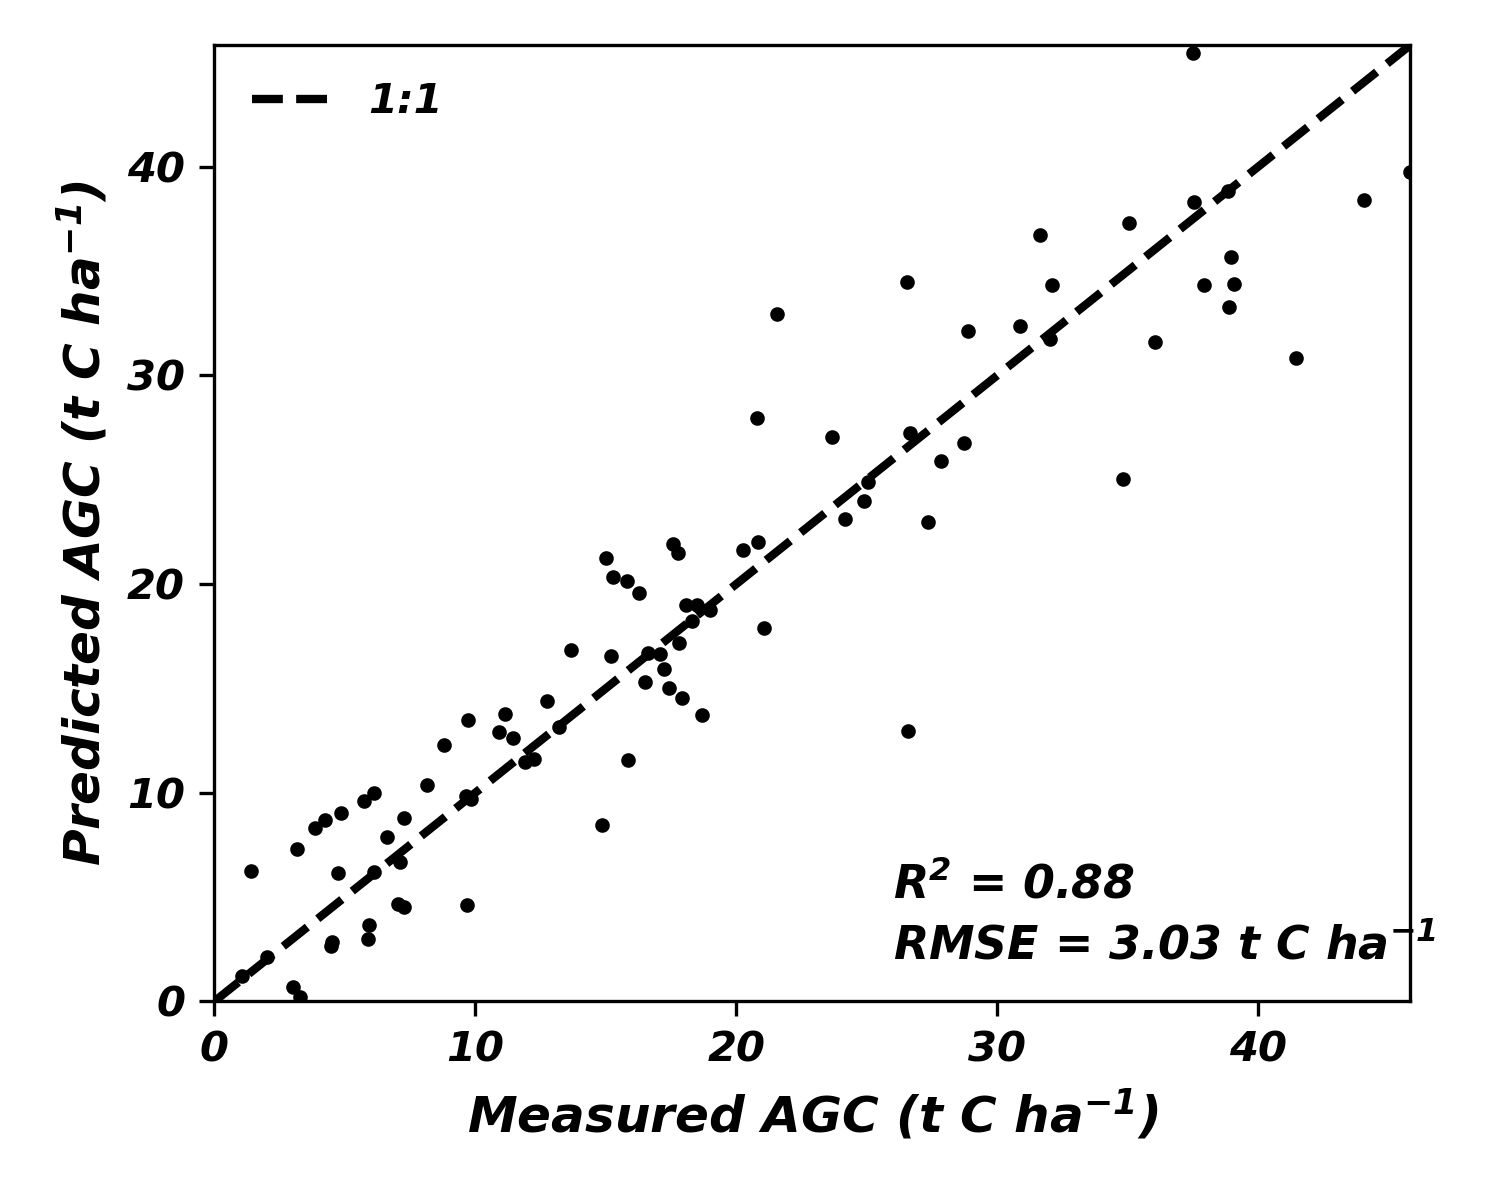
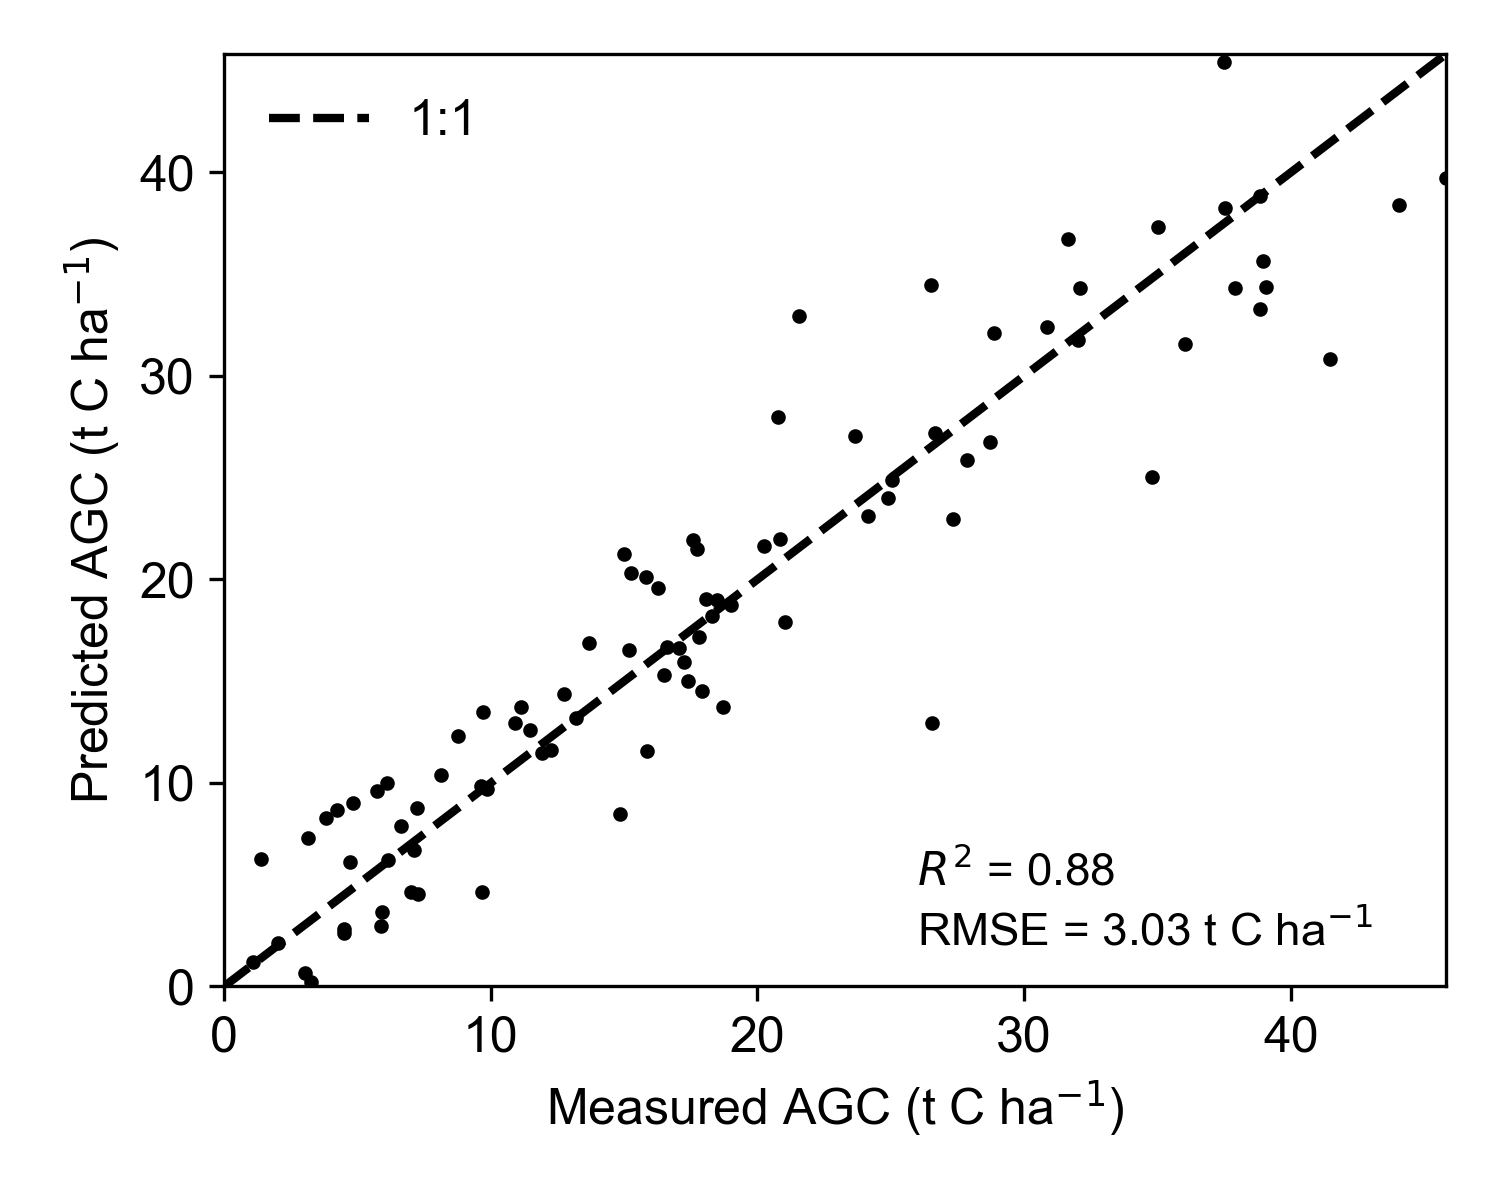
updates to plots in fit_agc_model.py for JARS paper tidying of fcr

diff --git a/scripts/fit_agc_model.py b/scripts/fit_agc_model.py
@@ -22,6 +22,7 @@ import numpy as np
 import geopandas as gpd, pandas as pd
 from sklearn import linear_model
 from matplotlib import pyplot
+
 import joblib, pickle
 
 from map_thicket_agc import imaging as img
@@ -61,91 +62,111 @@ im_plot_agc_gdf.loc[im_plot_agc_gdf['data']['Stratum'] == 'Degraded', ('data', '
 im_plot_agc_gdf.loc[im_plot_agc_gdf['data']['Stratum'] == 'Intact', ('data', 'Stratum')] = 'Pristine'
 
 # make an example scatter plot of feature vs AGC/ABC
+pyplot.rcParams["font.family"] = "arial"
+pyplot.rcParams["font.size"] = "12"
+pyplot.rcParams["font.style"] = "normal"
+pyplot.rcParams['legend.fontsize'] = 'medium'
+pyplot.rcParams['figure.titlesize'] = 'medium'
+
 pyplot.figure()
 vis.scatter_ds(im_plot_agc_gdf, x_col=('feats', '(mean(pan/R))'), y_col=('data', 'AgcHa'), class_col=('data', 'Stratum'),
                xfn=lambda x: np.log10(x), do_regress=True)
 
 ## select and analyse best features for predicting AGC with linear regression
 # TODO - experiment with cv vals in fs and eval below - has a big effect on what is selected and how it is scored.
+#       eg, cv=10, selects ~45 features and gets R2~.93, cv=5 selects ~10 features with R2~.88
 y = im_plot_agc_gdf['data']['AgcHa']
-selected_feats_df, selected_scores = fs.fcr(im_plot_agc_gdf['feats'], y, max_num_feats=25, dist_fn=None, score_fn=None)
+# selected_feats_df, selected_scores = fs.fcr(im_plot_agc_gdf['feats'], y, max_num_feats=None, dist_fn=None, score_fn=None)
 
 selected_feats_df, selected_scores = fs.forward_selection(im_plot_agc_gdf['feats'], y, max_num_feats=25, cv=5,
                                                           score_fn=None)
 
 # calculate scores of selected features with LOOCV
 selected_loocv_scores = []
-num_feats = range(0, len(selected_scores))
+num_feats = range(1, len(selected_scores)+1)
 for i in num_feats:
-    scores, predicted = fs.score_model(selected_feats_df.to_numpy()[:, :i + 1], y, model=linear_model.LinearRegression(),
+    scores, predicted = fs.score_model(selected_feats_df.to_numpy()[:, :i], y, model=linear_model.LinearRegression(),
                                        find_predicted=True, cv=len(selected_feats_df))
     loocv_scores = {'R2': scores['R2_stacked'], 'RMSE': np.abs(scores['test_-RMSE']).mean()/1000., 'RMSE CI':
         np.percentile(np.abs(scores['test_-RMSE']), [5, 95])}
     selected_loocv_scores.append(loocv_scores)
-    logger.info('Scored model {0} of {1}'.format(i+1, len(selected_scores)))
+    logger.info('Scored model {0} of {1}'.format(i, len(selected_scores)))
 
 selected_loocv_scores_df = pd.DataFrame(selected_loocv_scores)
+best_model_idx = np.argmin(selected_loocv_scores_df['RMSE'])
 
 # make plots of change in score as features are added to model for report
 fig = pyplot.figure()
 fig.set_size_inches(8, 6, forward=True)
 pyplot.subplot(2, 1, 1)
-pyplot.plot(num_feats, selected_loocv_scores_df['R2'], 'k-')
+pyplot.plot(num_feats, selected_loocv_scores_df['R2'], 'k-x')
 pyplot.xlabel('Number of features')
 pyplot.ylabel('$\mathit{R}^2$')
 pyplot.tight_layout()
 pyplot.subplot(2, 1, 2)
-pyplot.plot(num_feats, selected_loocv_scores_df['RMSE'], 'k-')
+pyplot.plot(num_feats, selected_loocv_scores_df['RMSE'], 'k-x')
 pyplot.xlabel('Number of features')
 pyplot.ylabel('RMSE (t C ha$^{-1}$)')
 pyplot.tight_layout()
 pyplot.pause(.2)
-pyplot.savefig(root_path.joinpath(r'data/outputs/plots/agc_acc_vs_num_feats1b_py38_cv10.png'), dpi=300)
+pyplot.savefig(root_path.joinpath(r'data/outputs/plots/agc_acc_vs_num_feats1b_py38_cv5.png'), dpi=300)
+
+from matplotlib.font_manager import FontProperties
 
 fig, ax1 = pyplot.subplots()
-fig.set_size_inches(8, 4, forward=True)
+fig.set_size_inches(10, 4, forward=True)
 color = 'tab:red'
-ax1.set_xlabel('Number of features')
-ax1.set_ylabel('$\mathit{R}^2$', color=color)  # we already handled the x-label with ax1
-ax1.plot(num_feats, selected_loocv_scores_df['R2'], color=color)
+ax1.plot(num_feats, selected_loocv_scores_df['R2'], color=color, marker='x')
+ax1.set_xlabel(r'Number of features')
+ax1.set_ylabel(r'$\mathit{R}^2$', color=color)  # we already handled the x-label with ax1
 ax1.tick_params(axis='y', labelcolor=color)
+
 ax2 = ax1.twinx()
 color = 'tab:blue'
-ax2.set_ylabel('-RMSE (t C ha$^{-1}$)', color=color)  # we already handled the x-label with ax1
-ax2.plot(num_feats, -selected_loocv_scores_df['RMSE'], color=color)
+ax2.plot(num_feats, -selected_loocv_scores_df['RMSE'], color=color, marker='o')
+ax2.set_ylabel(r'-RMSE (t C ha$^{-1}$)', color=color)  # we already handled the x-label with ax1
 ax2.tick_params(axis='y', labelcolor=color)
+ax2.set_xticks(num_feats)
+ax2.axis([num_feats[0]-1, num_feats[-1]+1, None, None])
 fig.tight_layout()  # otherwise the right y-label is slightly clipped
+ax2_lim = ax2.axis()
+ax2.plot([best_model_idx + 1, best_model_idx + 1], [ax2_lim[2], ax2_lim[3]], 'k--', label='Selected model')
+# pyplot.text(best_model_idx + 1.5, ax2_lim[2] + (ax2_lim[3]-ax2_lim[2])/3, 'Selected multivariate model',
+#             fontdict={'size': 9, 'weight': 'normal'})
+pyplot.legend()
+ax2.axis(ax2_lim)
 pyplot.pause(.2)
-fig.savefig(root_path.joinpath(r'data/outputs/agc_acc_vs_num_feats2b_py38_cv10.png'), dpi=300)
+fig.savefig(root_path.joinpath(r'data/outputs/plots/agc_acc_vs_num_feats2b_py38_cv5.png'), dpi=300)
 
 ## fit best multivariate model based on selected features
 logger.info('Multivariate scores:')
 best_model_idx = np.argmin(selected_loocv_scores_df['RMSE'])
-scores, predicted = fs.score_model(selected_feats_df.iloc[:, :best_model_idx + 1], y/1000, model=linear_model.LinearRegression(),
+scores_mv, predicted_mv = fs.score_model(selected_feats_df.iloc[:, :best_model_idx + 1], y/1000, model=linear_model.LinearRegression(),
                                                     find_predicted=True, cv=selected_feats_df.shape[0], print_scores=True)
 logger.info('Multivariate features:')
 logger.info(selected_feats_df.columns[:best_model_idx+1].to_numpy())
 
 f = pyplot.figure()
 f.set_size_inches(5, 4, forward=True)
-vis.scatter_y_actual_vs_pred(y/1000., predicted, scores)
+vis.scatter_y_actual_vs_pred(y/1000., predicted_mv, scores_mv)
 pyplot.savefig(root_path.joinpath(r'data/outputs/Plots/meas_vs_pred_agc_multivariate_model_b.png'), dpi=300)
 
 # fitting
 best_multivariate_model = linear_model.LinearRegression()
 best_multivariate_model.fit(selected_feats_df.iloc[:, :best_model_idx+1], y/1000)
 logger.info('Multivariate coefficients:')
+np.set_printoptions(precision=4, suppress=True)
 logger.info(np.array(best_multivariate_model.coef_))
 logger.info('Multivariate intercept:')
 logger.info(np.array(best_multivariate_model.intercept_))
 
 # save model
-joblib.dump([best_multivariate_model, selected_feats_df.columns[:best_model_idx+1].to_numpy(), scores], root_path.joinpath(r'data/outputs/Models/best_multivariate_model_py38_cv5v2.joblib'))
-pickle.dump([best_multivariate_model, selected_feats_df.columns[:best_model_idx+1].to_numpy(), scores], open(root_path.joinpath(r'data/outputs/Models/best_multivariate_model_py38_cv5v2.pickle'), 'wb'))
+joblib.dump([best_multivariate_model, selected_feats_df.columns[:best_model_idx+1].to_numpy(), scores_mv], root_path.joinpath(r'data/outputs/Models/best_multivariate_model_py38_cv5v2.joblib'))
+pickle.dump([best_multivariate_model, selected_feats_df.columns[:best_model_idx+1].to_numpy(), scores_mv], open(root_path.joinpath(r'data/outputs/Models/best_multivariate_model_py38_cv5v2.pickle'), 'wb'))
 
 ## fit best univariate model based on selected feature
 logger.info('Univariate model scores:')
-scores, predicted = fs.score_model(selected_feats_df.iloc[:, :1], y/1000, model=linear_model.LinearRegression(),
+scores_uv, predicted_uv = fs.score_model(selected_feats_df.iloc[:, :1], y/1000, model=linear_model.LinearRegression(),
                                                     find_predicted=True, cv=selected_feats_df.shape[0], print_scores=True)
 
 logger.info('Univariate model features:')
@@ -153,8 +174,18 @@ logger.info(selected_feats_df.columns[:1].to_numpy())
 
 f = pyplot.figure()
 f.set_size_inches(5, 4, forward=True)
-vis.scatter_y_actual_vs_pred(y/1000., predicted, scores)
+vis.scatter_y_actual_vs_pred(y/1000., predicted_uv, scores_uv)
 pyplot.savefig(root_path.joinpath(r'data/outputs/Plots/meas_vs_pred_agc_univariate_model_b.png'), dpi=300)
+
+f = pyplot.figure()
+f.set_size_inches(10, 4, forward=True)
+pyplot.subplot(1, 2, 1)
+pyplot.title('(a)')
+vis.scatter_y_actual_vs_pred(y/1000., predicted_mv, scores_mv)
+pyplot.subplot(1, 2, 2)
+pyplot.title('(b)')
+vis.scatter_y_actual_vs_pred(y/1000., predicted_uv, scores_uv)
+pyplot.savefig(root_path.joinpath(r'data/outputs/Plots/meas_vs_pred_agc_both_models_b.png'), dpi=300)
 
 # fitting
 best_univariate_model = linear_model.LinearRegression(fit_intercept=True)
@@ -165,8 +196,8 @@ logger.info('Univariate model intercept:')
 logger.info(np.array(best_univariate_model.intercept_))
 
 # save model
-joblib.dump([best_univariate_model, selected_feats_df.columns[:1].to_numpy(), scores], root_path.joinpath(r'data/outputs/Models/best_univariate_model_py38_cv5v2.joblib'))
-pickle.dump([best_univariate_model, selected_feats_df.columns[:1].to_numpy(), scores], open(root_path.joinpath(r'data/outputs/Models/best_univariate_model_py38_cv5v2.pickle'), 'wb'))
+joblib.dump([best_univariate_model, selected_feats_df.columns[:1].to_numpy(), scores_uv], root_path.joinpath(r'data/outputs/Models/best_univariate_model_py38_cv5v2.joblib'))
+pickle.dump([best_univariate_model, selected_feats_df.columns[:1].to_numpy(), scores_uv], open(root_path.joinpath(r'data/outputs/Models/best_univariate_model_py38_cv5v2.pickle'), 'wb'))
 
 logger.info('Done\n')
 if __name__ =='__main__':

diff --git a/map_thicket_agc/feature_selection.py b/map_thicket_agc/feature_selection.py
@@ -71,33 +71,33 @@ def fcr(feat_df, y, max_num_feats=None, dist_fn='dcor', score_fn='dcor'):
     sc_feat_df = scaler.fit_transform(feat_df)
     sc_y = scaler.fit_transform(y.to_numpy().reshape(-1, 1))
     # corrc = -1*np.abs(np.corrcoef(sc_feat_df.T)).T
-    corrc = -dcor.distances.pairwise_distances(sc_feat_df.T)
-    pref = np.median(corrc)
-    ap = AffinityPropagation(random_state=0, max_iter=10000, preference=pref, damping=.5, affinity='precomputed').fit(corrc)
+    d = -dcor.distances.pairwise_distances(sc_feat_df.T)
+    pref = np.median(d)
+    ap = AffinityPropagation(random_state=1, max_iter=10000, preference=pref, damping=.5, affinity='precomputed').fit(d)
 
     logger.info(f'Exemplars ({len(ap.cluster_centers_indices_)}): {feat_df.columns[ap.cluster_centers_indices_]}\n')
     logger.info('Clusters: ')
     selected_feats = []
-    selected_feat_scores = []
+    cluster_scores = []
     for label in np.unique(ap.labels_):
         logger.info(f'Cluster {label}:')
         label_idx = np.nonzero(ap.labels_ == label)[0]      # indices features in this cluster
 
-        # rank features in this cluster by distamce to y
+        # rank features in this cluster by their distance to y
         dy = dcor.rowwise(dcor.distance_covariance_sqr, sc_feat_df[:, label_idx].T, sc_y.T,
                           compile_mode=dcor.CompileMode.COMPILE_PARALLEL)
         rank_label_idx = label_idx[np.argsort(-dy)]
         logger.info(f'{feat_df.columns[rank_label_idx]}\n')
 
         selected_feats.append(rank_label_idx[0])
-        selected_feat_scores.append(dy.min())
+        cluster_scores.append(np.max(dy))
 
-    rank_feat_idx = np.argsort(-np.array(selected_feat_scores))
+    rank_feat_idx = np.argsort(-np.array(cluster_scores))
     selected_feats = np.array(selected_feats)[rank_feat_idx]
-    selected_feat_scores = np.array(selected_feat_scores)[rank_feat_idx]
+    cluster_scores = np.array(cluster_scores)[rank_feat_idx]
     logger.info(f'Selected features (ranked): {feat_df.columns[selected_feats]}:')
 
-    return feat_df.iloc[:, selected_feats[:max_num_feats]], selected_feat_scores[:max_num_feats]
+    return feat_df.iloc[:, selected_feats[:max_num_feats]], cluster_scores[:max_num_feats]
 
 def forward_selection(feat_df, y, max_num_feats=0, model=linear_model.LinearRegression(),
                       score_fn=None, cv=None):
